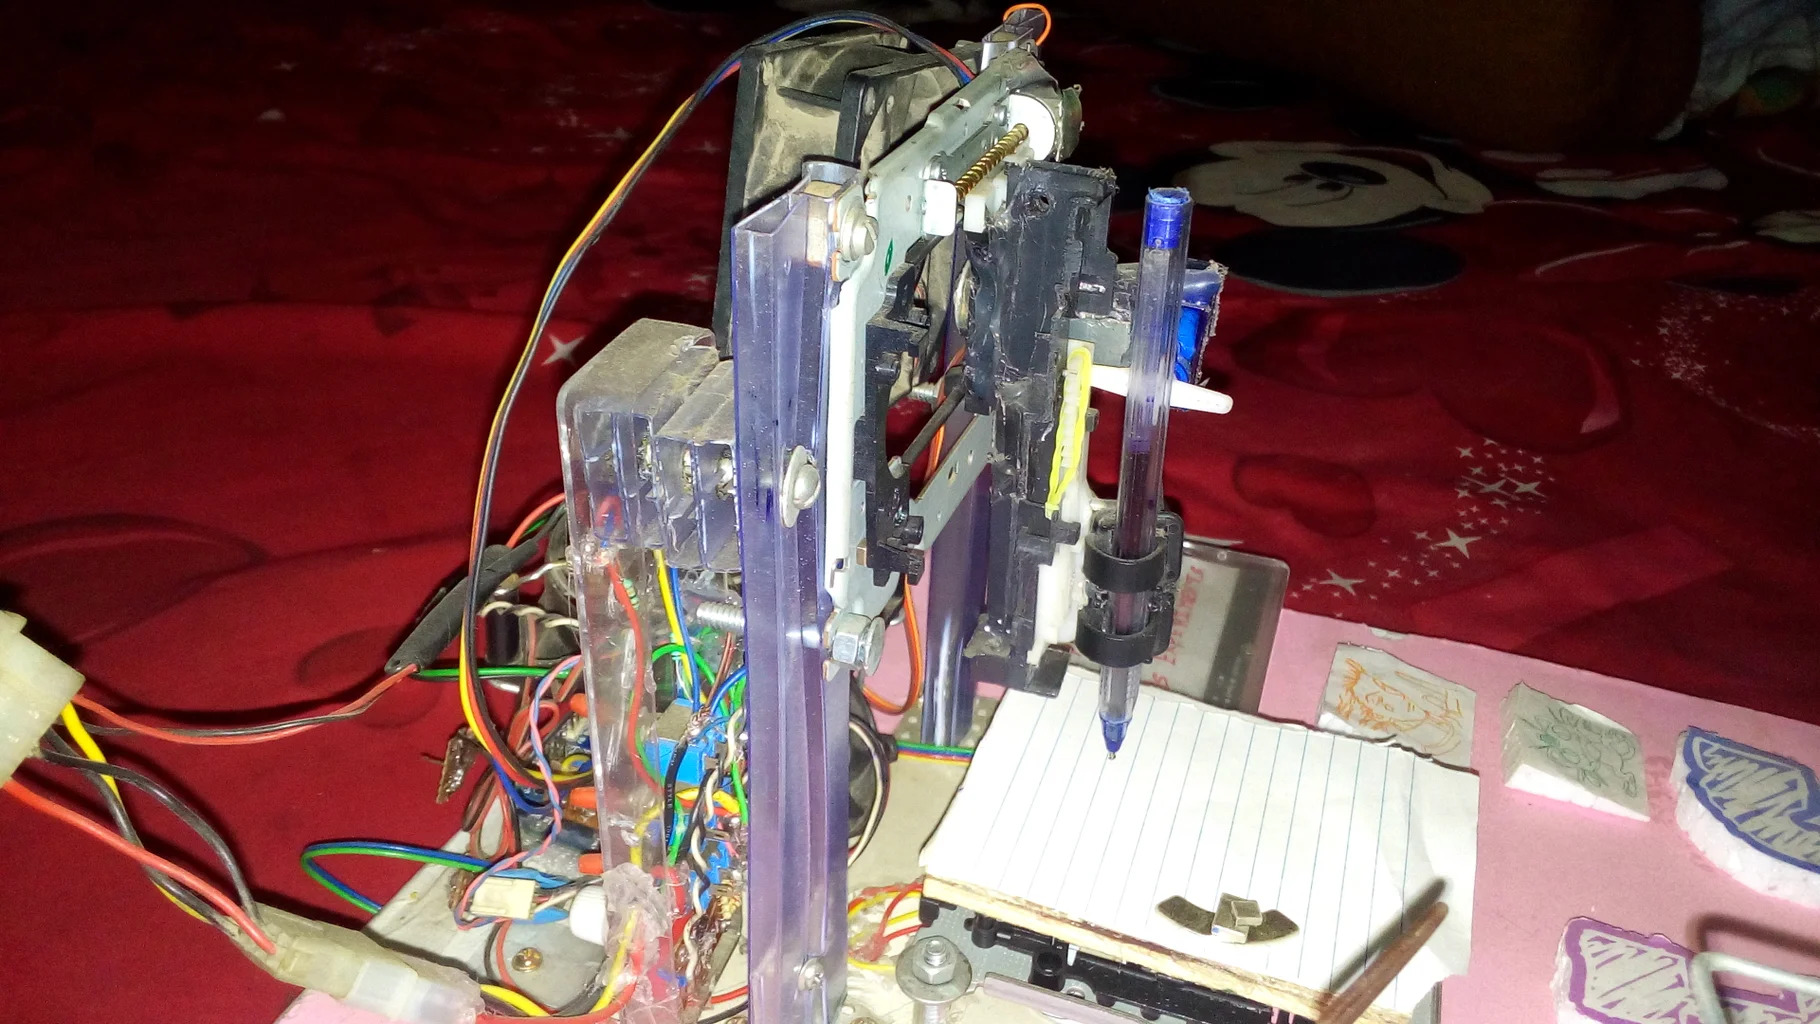
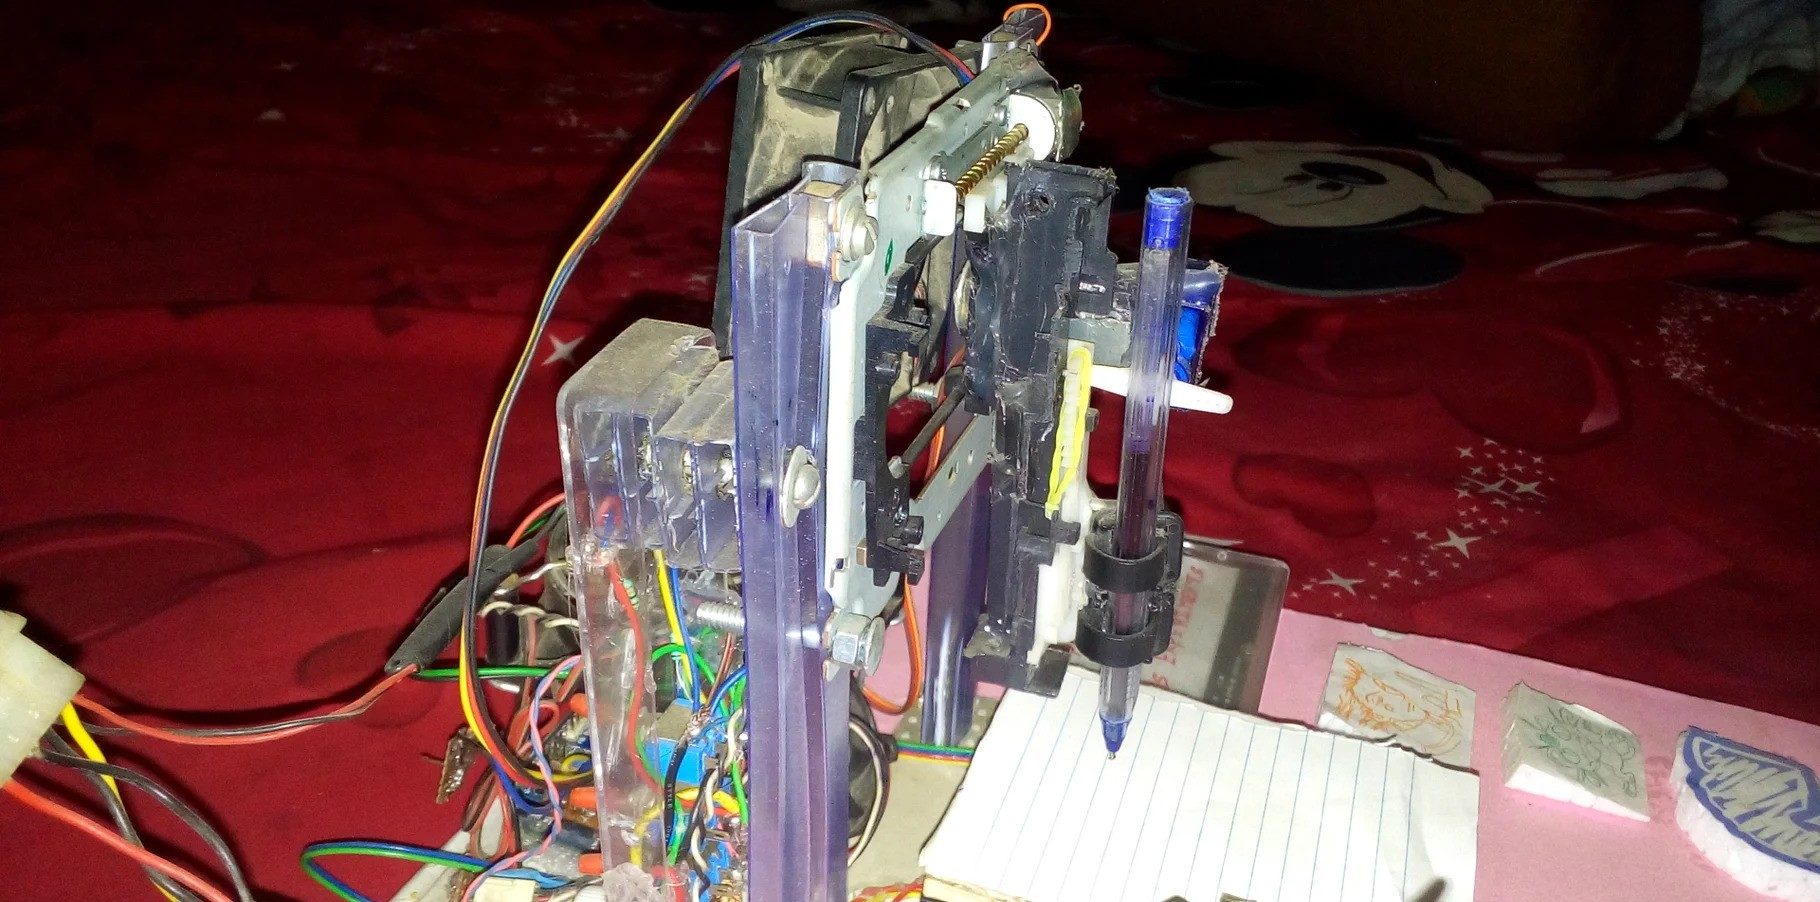
added images and linksa and updated some sections of the code

diff --git a/templates/index.html b/templates/index.html
@@ -49,9 +49,6 @@
                     <a class="nav-link js-scroll-trigger" href="#skills">Skills</a>
                 </li>
                 <li class="nav-item">
-                    <a class="nav-link js-scroll-trigger" href="#awards">Awards</a>
-                </li>
-                <li class="nav-item">
                     <a class="nav-link js-scroll-trigger" href="#contact">Contact</a>
                 </li>
             </ul>
@@ -183,7 +180,7 @@
     ======================================================-->       
       <section class="d-flex flex-column" id="skills">
          <div class="p-lg-5 p-3 skill-cover">
-          <h3 class="text-center text-white">Coding Skills</h3>
+          <h3 class="text-center text-white">Coding and Hardware Skills</h3>
           <div class="row text-center my-auto">
               {% for skill in skills %}
               <div class="col-md-3 col-sm-6">
@@ -197,34 +194,6 @@
           </div>
          </div>
       </section>
-
-    <!--====================================================
-                           AWARDS
-    ======================================================-->       
-      <section class="resume-section p-3 p-lg-5 d-flex flex-column" id="awards">
-          <div class="row my-auto">
-              <div class="col-12">
-                <h2 class="text-center">Awards</h2>
-                <div class="mb-5 heading-border"></div>
-              </div> 
-              <div class="main-award" id="award-box">
-                  {% for award in award %}
-                    <div class="award" id="award-border" style="border-left: 1px solid {{ award.card_color }};">
-                      <div class="award-icon">
-                          <i class="fa {{ award.icon }} fa-2x {{ award.icon_color }}"></i>
-                      </div>
-                      <div class="award-content">
-                          <span class="date">{{ award.date }}</span>
-                          <h5 class="title">{{ award.title }}</h5>
-                          <p class="description">
-                              {{ award.description }}
-                          </p>
-                      </div>
-                    </div>
-                  {% endfor %}
-              </div>
-          </div>
-      </section> 
 
     <!--====================================================
                           CONTACT

diff --git a/templates/admin.html b/templates/admin.html
@@ -40,13 +40,6 @@
         {% endfor %}
     </ul>
 
-    <h2>Awards</h2>
-    <ul>
-        {% for a in awards %}
-        <li>{{ a }}</li>
-        {% endfor %}
-    </ul>
-
     <h2>Portfolio</h2>
     <ul>
         {% for item in portfolio %}

diff --git a/app.py b/app.py
@@ -43,7 +43,6 @@ MY_PERSONAL_EMAIL = os.getenv('MY_PERSONAL_EMAIL')
 with open('Project_Config.json', 'r') as f:
     project_json = json.load(f)
     PROJECTS = project_json.get('projects', [])
-    AWARDS = project_json.get('awards', [])
     PORTFOLIO = project_json.get('portfolio', [])
     skills = project_json.get('skills', [])
 
@@ -54,7 +53,6 @@ def index():
         social_links=SOCIAL_LINKS,
         personal_email=MY_PERSONAL_EMAIL,
         projects=PROJECTS,
-        award=AWARDS,
         portfolio=PORTFOLIO,
         skills=skills
     )
@@ -111,7 +109,6 @@ def admin():
         "admin.html",
         messages=messages,
         projects=PROJECTS,
-        awards=AWARDS,
         portfolio=PORTFOLIO,
         skills=skills,
         social_links=SOCIAL_LINKS,
